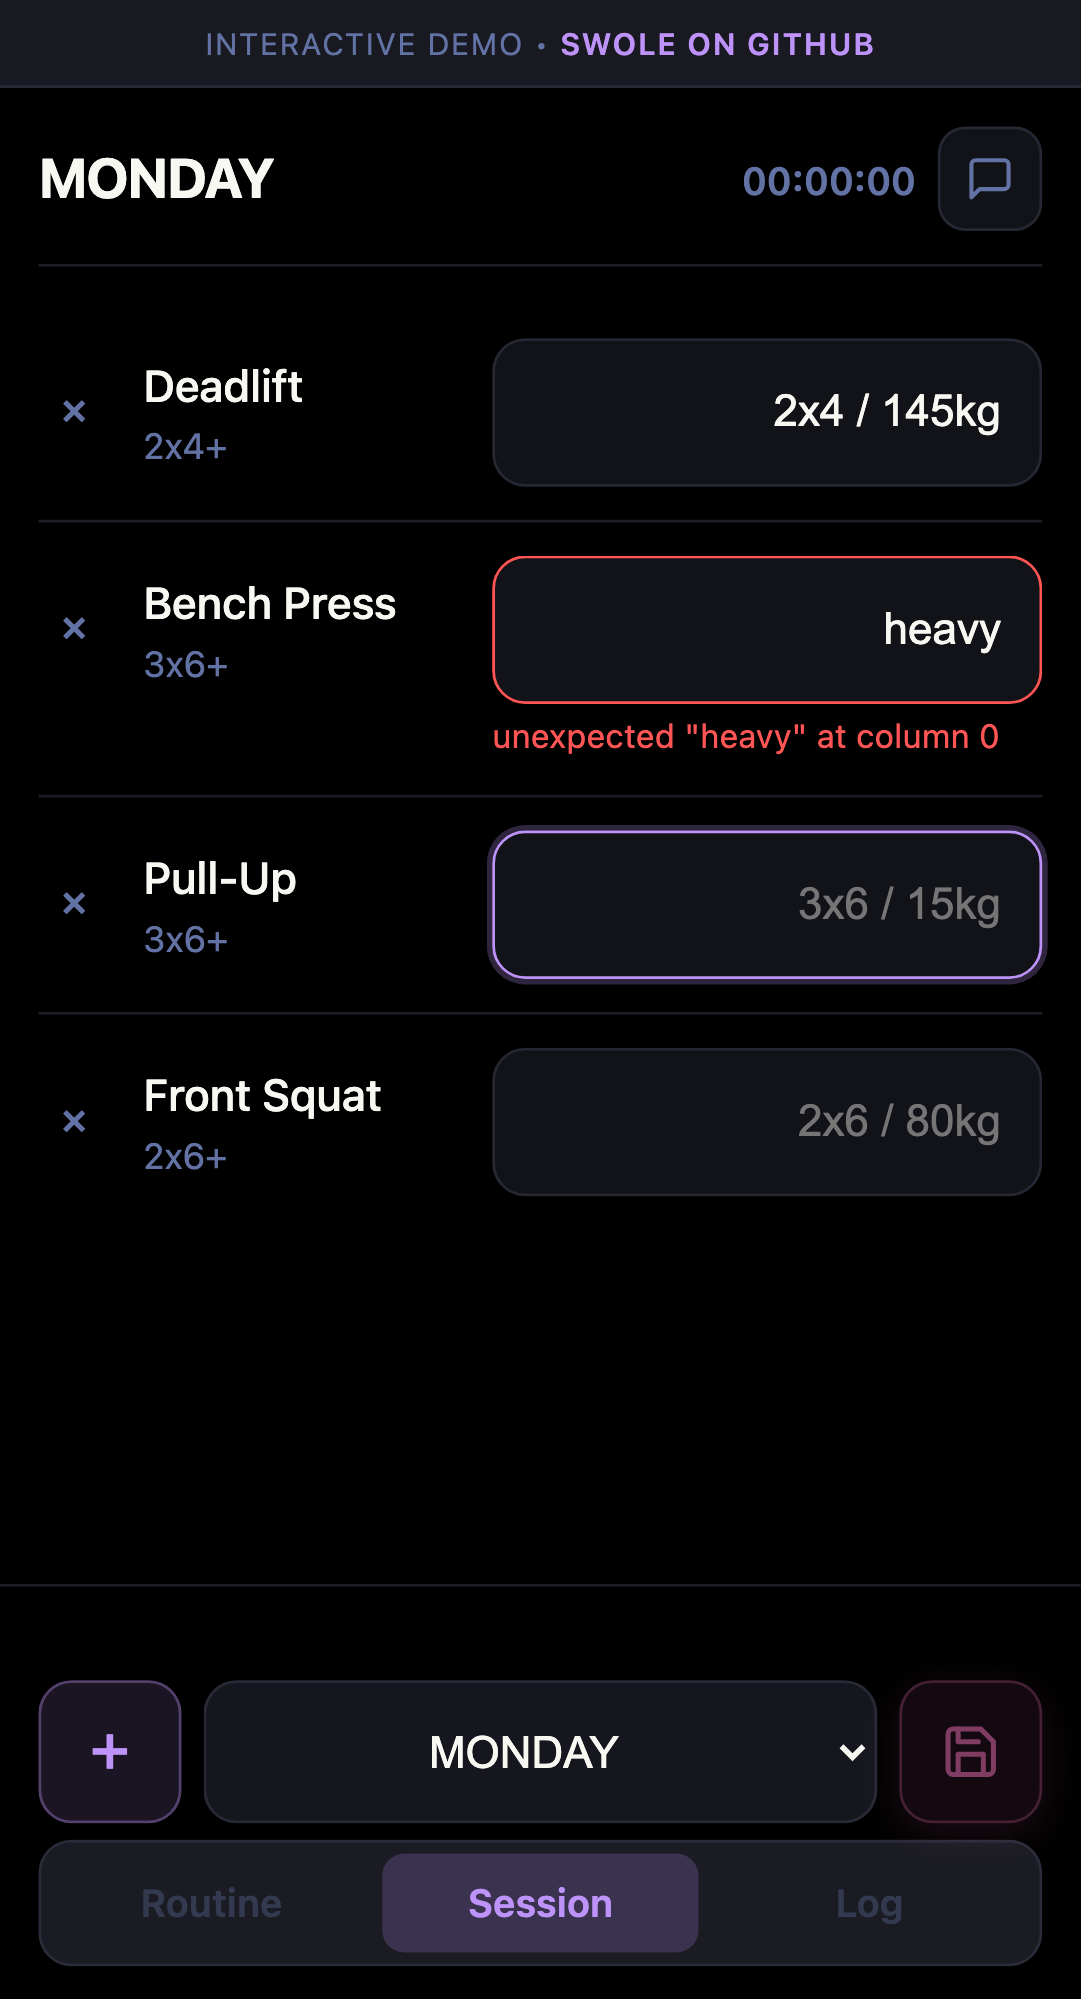
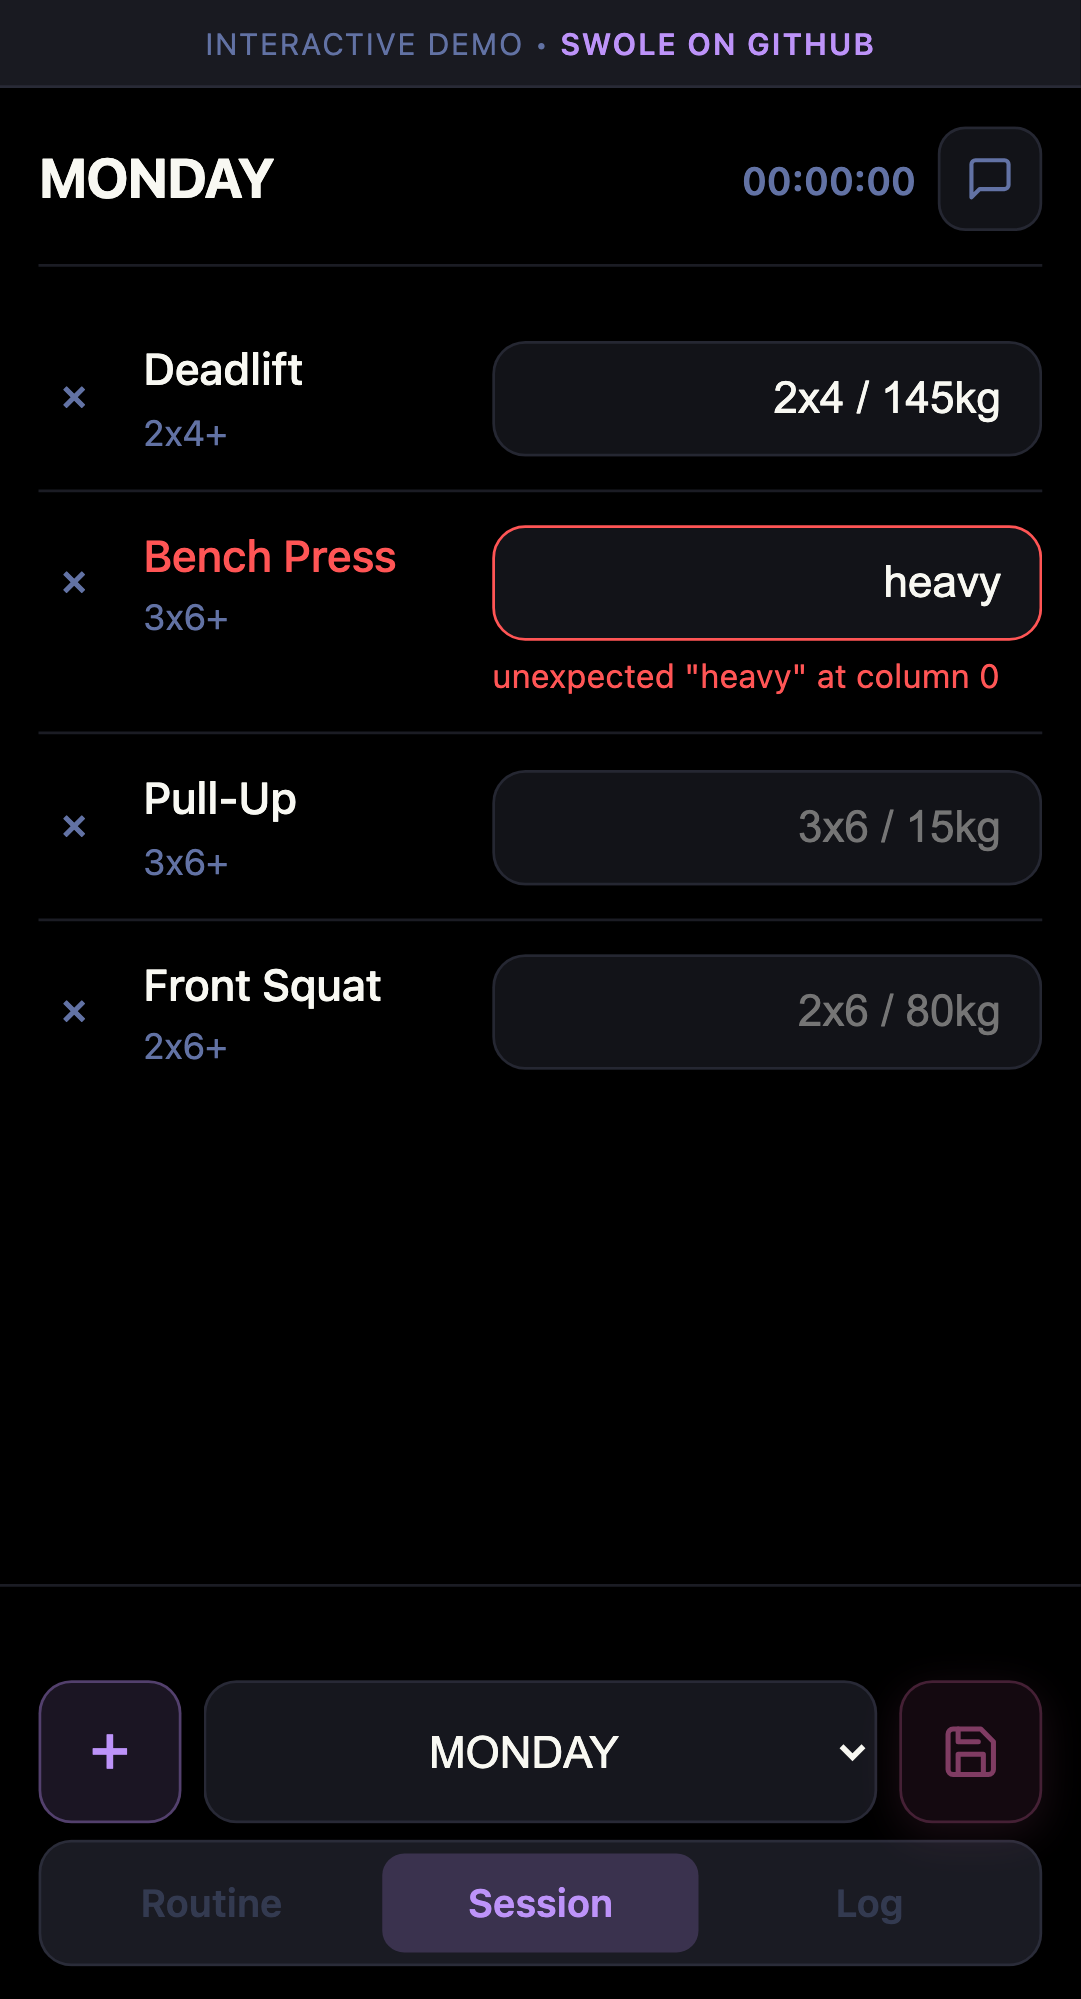
feat: shorter inputs, parse errors shown on tapping the exercise

diff --git a/src/ui/app.js b/src/ui/app.js
@@ -306,6 +306,7 @@ export function mount(api) {
       }
     }
     r.classList.toggle("invalid", Boolean(reason));
+    if (!reason) r.classList.remove("show-err");
     if (reason) {
       const el = document.createElement("div");
       el.className = "err";
@@ -638,6 +639,10 @@ export function mount(api) {
   $("list").addEventListener("click", (evt) => {
     const target = /** @type {HTMLElement} */ (evt.target);
     const btn = target.closest(".del-btn");
+    // Tapping an invalid exercise shows or hides why its line does not parse.
+    const invalid = target.closest(".row.invalid");
+    if (!btn && invalid && !target.closest("input"))
+      invalid.classList.toggle("show-err");
     if (!btn) return;
     const row = btn.closest(".row");
     if (row) {

diff --git a/src/ui/styles.css b/src/ui/styles.css
@@ -159,7 +159,7 @@ select option {
   margin-top: 2px;
 }
 .row input {
-  height: 54px;
+  height: 42px;
   font-size: 16px;
   padding: 0 14px;
   text-align: right;
@@ -432,8 +432,16 @@ select option {
   border-color: var(--err);
 }
 .row .err {
+  display: none;
   grid-column: 3;
   margin-top: -6px;
   font-size: 12px;
   color: var(--err);
+}
+.row.show-err .err {
+  display: block;
+}
+.row.invalid .name {
+  color: var(--err);
+  cursor: pointer;
 }

diff --git a/test/e2e/demo.spec.js b/test/e2e/demo.spec.js
@@ -194,6 +194,8 @@ test("an invalid line shows the reason and blocks save until fixed", async ({
   await input.fill("heavy");
   await input.blur();
   await expect(row).toHaveClass(/invalid/);
+  await expect(row.locator(".err")).toBeHidden();
+  await row.locator(".name").click();
   await expect(row.locator(".err")).toContainText("unexpected");
   await expect(page.locator("#save")).toBeDisabled();
 

diff --git a/scripts/screenshot.js b/scripts/screenshot.js
@@ -19,6 +19,7 @@ await inputs.nth(0).fill("2x4 / 145kg");
 await inputs.nth(1).fill("heavy");
 await inputs.nth(2).click();
 await page.locator("#list .row.invalid").waitFor();
+await page.locator("#list .row.invalid .name").click();
 if (!(await page.locator("#save").isDisabled()))
   throw new Error("save not disabled");
 await page.waitForTimeout(300); // let the 0.15s opacity transition finish
